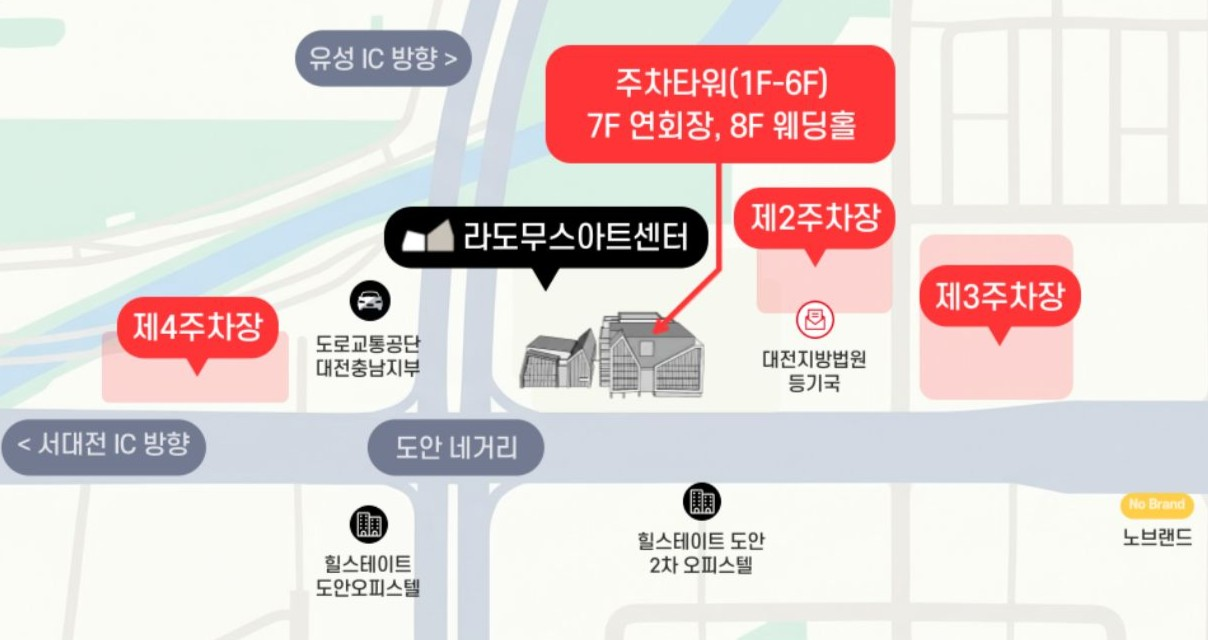
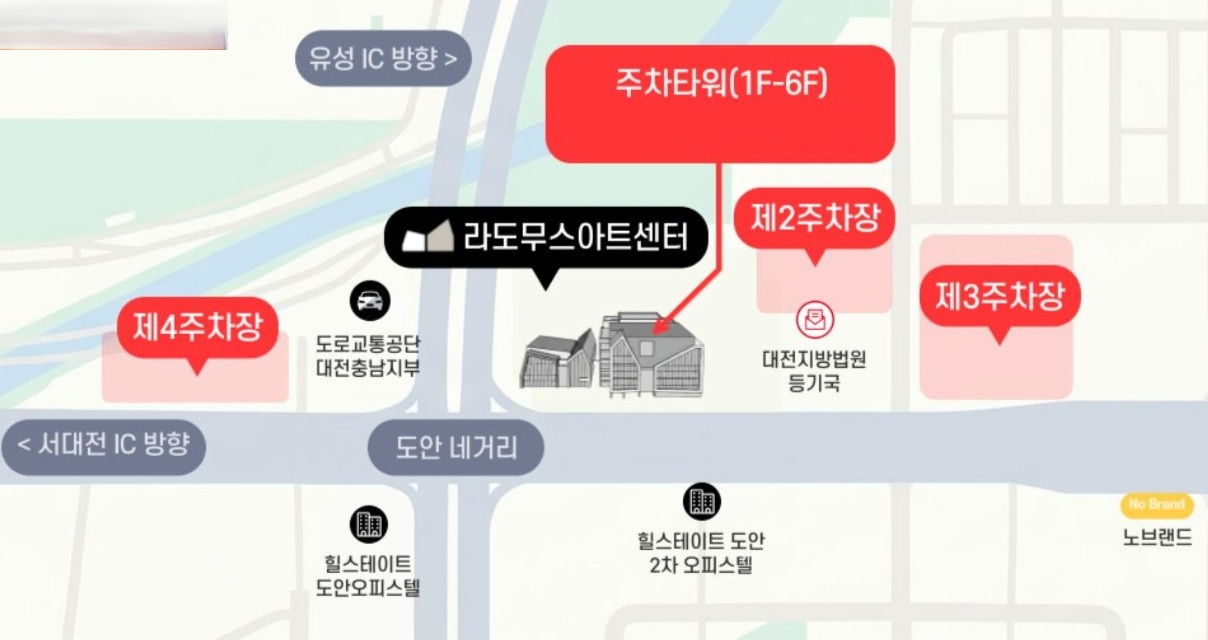
Add Open Graph (OG) meta tags for link previews

Changed region(s): [[0.4901, 0.1562, 0.7351, 0.2188], [0.0306, 0.0312, 0.1838, 0.0938]]

diff --git a/index.html b/index.html
@@ -4,6 +4,12 @@
     <meta charset="UTF-8">
     <meta name="viewport" content="width=device-width, initial-scale=1.0">
     <title>나학채 & 노영아 결혼합니다</title>
+    <!-- 카카오톡 등 링크 공유 시 미리보기 (Open Graph) -->
+    <meta property="og:type" content="website">
+    <meta property="og:url" content="https://hcna999.github.io/invitation/">
+    <meta property="og:title" content="나학채 ♥ 노영아 결혼합니다">
+    <meta property="og:description" content="2026년 09월 20일 (일) 오후 2시, 라도무스 아트센터 3층 아트리움홀">
+    <meta property="og:image" content="https://hcna999.github.io/invitation/대표사진.jpg">
     <link rel="stylesheet" href="style.css">
     <!-- Google Fonts -->
     <link href="https://fonts.googleapis.com/css2?family=Gowun+Dodum&family=Noto+Serif+KR:wght@300;400;600&display=swap" rel="stylesheet">
